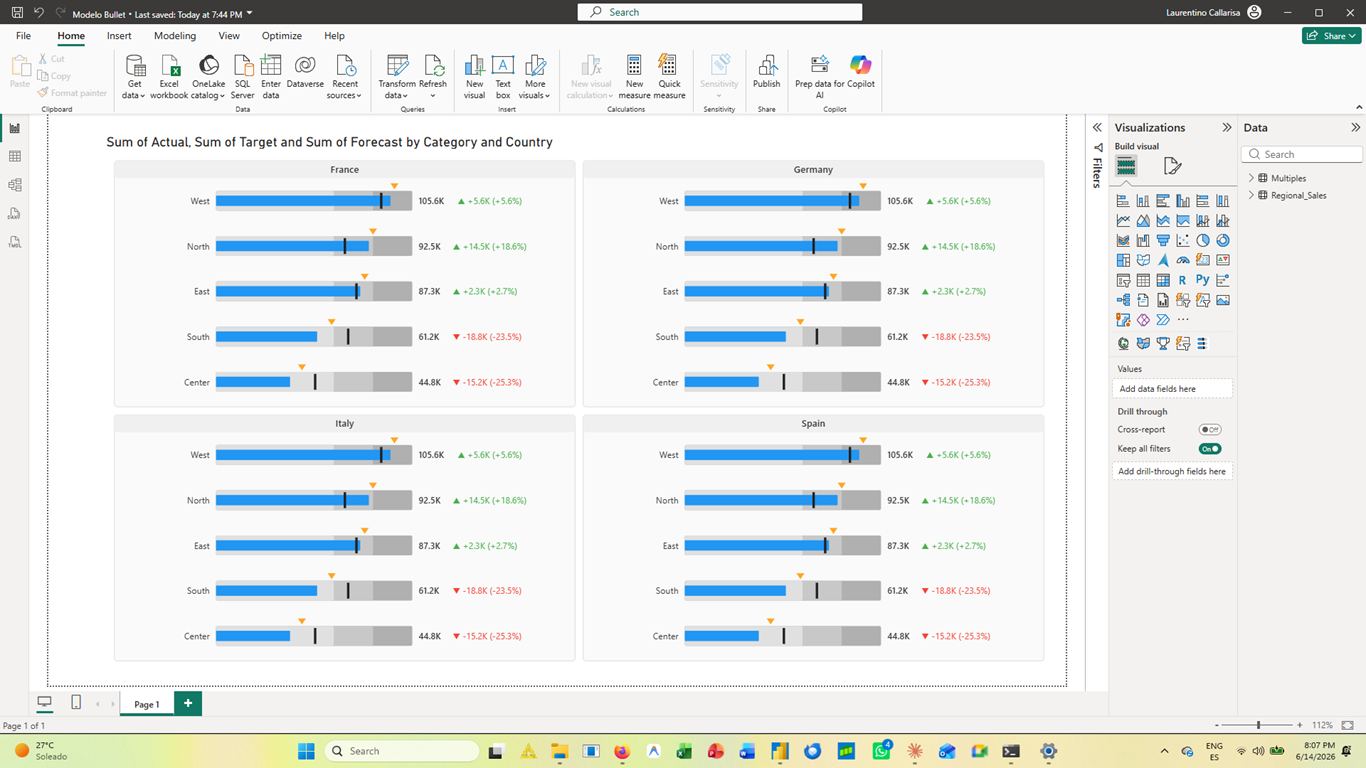
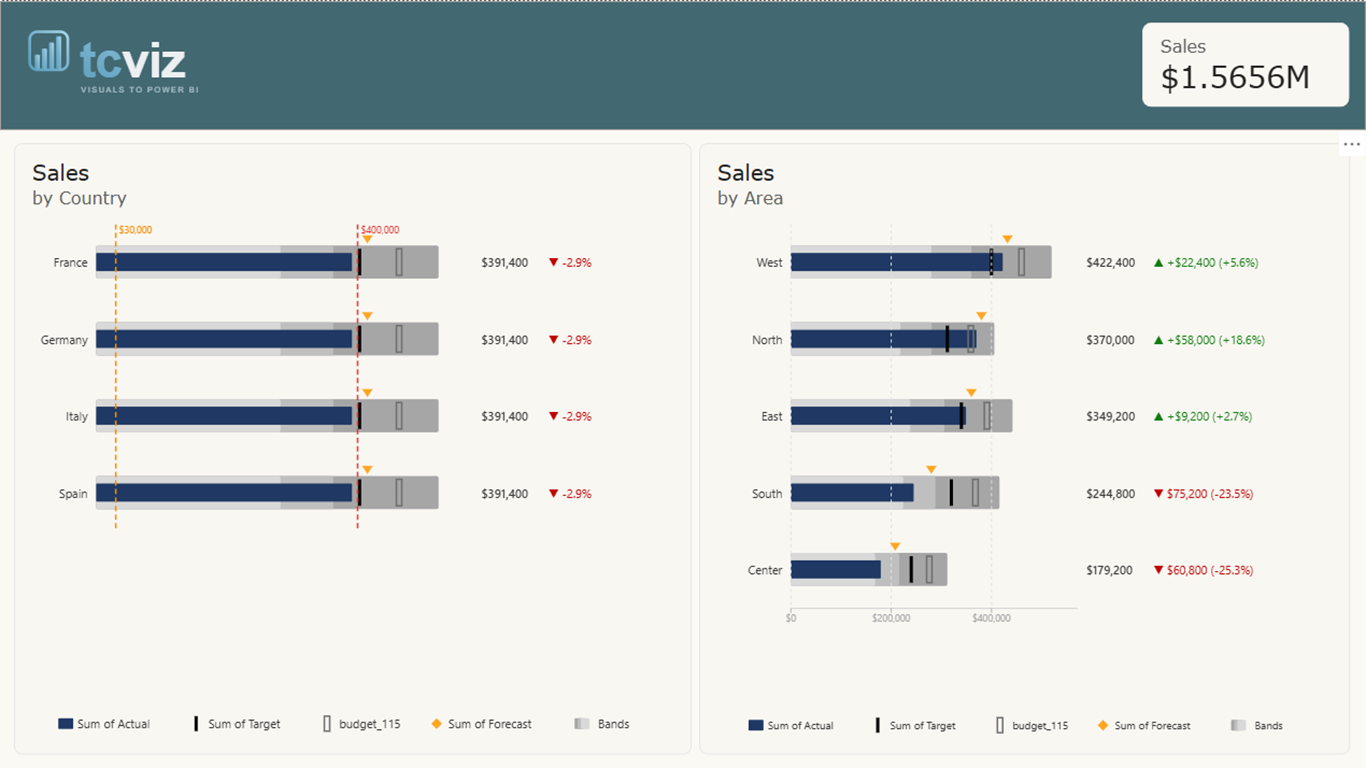
1.5: icono nuevo, infografía y capturas en assets/, datos de ejemplo

diff --git a/webpack.statistics.prod.html b/webpack.statistics.prod.html
@@ -3,7 +3,7 @@
   <head>
     <meta charset="UTF-8"/>
     <meta name="viewport" content="width=device-width, initial-scale=1"/>
-    <title>bullet-chart-pro-tcviz [15 Jun 2026 at 20:03]</title>
+    <title>bullet-chart-pro-tcviz [21 Oct 2026 at 13:52]</title>
[1 lines of base64/hex data omitted]
 
     <script>
@@ -31,7 +31,7 @@
   <body>
     <div id="app"></div>
     <script>
-      window.chartData = [{"label":"visual.js","isAsset":true,"statSize":41421,"parsedSize":21737,"gzipSize":6152,"groups":[{"label":".tmp/precompile","path":"./.tmp/precompile","statSize":991,"groups":[{"id":251,"label":"visualPlugin.ts","path":"./.tmp/precompile/visualPlugin.ts","statSize":991,"parsedSize":1037,"gzipSize":569}],"parsedSize":1037,"gzipSize":569},{"label":"src","path":"./src","statSize":40430,"groups":[{"id":473,"label":"settings.ts","path":"./src/settings.ts","statSize":933,"parsedSize":611,"gzipSize":380},{"id":848,"label":"visual.ts","path":"./src/visual.ts","statSize":39497,"parsedSize":20077,"gzipSize":5458}],"parsedSize":20688,"gzipSize":5676}],"isInitialByEntrypoint":{"visual.js":true}}];
+      window.chartData = [{"label":"visual.js","isAsset":true,"statSize":655906,"parsedSize":260832,"gzipSize":77741,"groups":[{"label":".tmp/precompile","path":"./.tmp/precompile","statSize":991,"groups":[{"id":9251,"label":"visualPlugin.ts","path":"./.tmp/precompile/visualPlugin.ts","statSize":991,"parsedSize":1765,"gzipSize":991}],"parsedSize":1765,"gzipSize":991},{"label":"node_modules","path":"./node_modules","statSize":441158,"groups":[{"label":"d3-selection/src","path":"./node_modules/d3-selection/src","statSize":28702,"groups":[{"id":5478,"label":"array.js","path":"./node_modules/d3-selection/src/array.js","statSize":568,"parsedSize":90,"gzipSize":101},{"id":9731,"label":"constant.js","path":"./node_modules/d3-selection/src/constant.js","statSize":72,"parsedSize":67,"gzipSize":73},{"id":3663,"label":"creator.js","path":"./node_modules/d3-selection/src/creator.js","statSize":668,"parsedSize":369,"gzipSize":221},{"id":7875,"label":"index.js","path":"./node_modules/d3-selection/src/index.js","statSize":770,"parsedSize":73,"gzipSize":85},{"id":6541,"label":"matcher.js","path":"./node_modules/d3-selection/src/matcher.js","statSize":211,"parsedSize":143,"gzipSize":102},{"id":7268,"label":"namespace.js","path":"./node_modules/d3-selection/src/namespace.js","statSize":351,"parsedSize":188,"gzipSize":174},{"id":7947,"label":"namespaces.js","path":"./node_modules/d3-selection/src/namespaces.js","statSize":254,"parsedSize":248,"gzipSize":165},{"id":183,"label":"select.js","path":"./node_modules/d3-selection/src/select.js","statSize":262,"parsedSize":167,"gzipSize":153},{"id":4984,"label":"selectAll.js","path":"./node_modules/d3-selection/src/selectAll.js","statSize":300,"parsedSize":185,"gzipSize":166},{"label":"selection","path":"./node_modules/d3-selection/src/selection","statSize":24705,"groups":[{"id":8072,"label":"append.js","path":"./node_modules/d3-selection/src/selection/append.js","statSize":238,"parsedSize":175,"gzipSize":150},{"id":7339,"label":"attr.js","path":"./node_modules/d3-selection/src/selection/attr.js","statSize":1463,"parsedSize":805,"gzipSize":294},{"id":5152,"label":"call.js","path":"./node_modules/d3-selection/src/selection/call.js","statSize":134,"parsedSize":111,"gzipSize":111},{"id":8235,"label":"classed.js","path":"./node_modules/d3-selection/src/selection/classed.js","statSize":1740,"parsedSize":996,"gzipSize":439},{"id":9063,"label":"clone.js","path":"./node_modules/d3-selection/src/selection/clone.js","statSize":453,"parsedSize":269,"gzipSize":154},{"id":8664,"label":"data.js","path":"./node_modules/d3-selection/src/selection/data.js","statSize":4191,"parsedSize":1156,"gzipSize":617},{"id":9433,"label":"datum.js","path":"./node_modules/d3-selection/src/selection/datum.js","statSize":132,"parsedSize":112,"gzipSize":116},{"id":202,"label":"dispatch.js","path":"./node_modules/d3-selection/src/selection/dispatch.js","statSize":894,"parsedSize":457,"gzipSize":262},{"id":2901,"label":"each.js","path":"./node_modules/d3-selection/src/selection/each.js","statSize":289,"parsedSize":172,"gzipSize":153},{"id":807,"label":"empty.js","path":"./node_modules/d3-selection/src/selection/empty.js","statSize":53,"parsedSize":57,"gzipSize":77},{"id":4916,"label":"enter.js","path":"./node_modules/d3-selection/src/selection/enter.js","statSize":798,"parsedSize":567,"gzipSize":284},{"id":2672,"label":"exit.js","path":"./node_modules/d3-selection/src/selection/exit.js","statSize":182,"parsedSize":128,"gzipSize":132},{"id":9734,"label":"filter.js","path":"./node_modules/d3-selection/src/selection/filter.js","statSize":552,"parsedSize":291,"gzipSize":239},{"id":697,"label":"html.js","path":"./node_modules/d3-selection/src/selection/html.js","statSize":520,"parsedSize":301,"gzipSize":182},{"id":1882,"label":"index.js","path":"./node_modules/d3-selection/src/selection/index.js","statSize":2805,"parsedSize":929,"gzipSize":608},{"id":1429,"label":"insert.js","path":"./node_modules/d3-selection/src/selection/insert.js","statSize":474,"parsedSize":288,"gzipSize":194},{"id":1322,"label":"iterator.js","path":"./node_modules/d3-selection/src/selection/iterator.js","statSize":231,"parsedSize":144,"gzipSize":137},{"id":5232,"label":"join.js","path":"./node_modules/d3-selection/src/selection/join.js","statSize":509,"parsedSize":242,"gzipSize":181},{"id":9215,"label":"lower.js","path":"./node_modules/d3-selection/src/selection/lower.js","statSize":171,"parsedSize":155,"gzipSize":135},{"id":7610,"label":"merge.js","path":"./node_modules/d3-selection/src/selection/merge.js","statSize":645,"parsedSize":332,"gzipSize":244},{"id":4784,"label":"node.js","path":"./node_modules/d3-selection/src/selection/node.js","statSize":258,"parsedSize":160,"gzipSize":142},{"id":3455,"label":"nodes.js","path":"./node_modules/d3-selection/src/selection/nodes.js","statSize":57,"parsedSize":62,"gzipSize":82},{"id":5233,"label":"on.js","path":"./node_modules/d3-selection/src/selection/on.js","statSize":2027,"parsedSize":1133,"gzipSize":559},{"id":4510,"label":"order.js","path":"./node_modules/d3-selection/src/selection/order.js","statSize":380,"parsedSize":223,"gzipSize":192},{"id":461,"label":"property.js","path":"./node_modules/d3-selection/src/selection/property.js","statSize":617,"parsedSize":326,"gzipSize":190},{"id":2582,"label":"raise.js","path":"./node_modules/d3-selection/src/selection/raise.js","statSize":138,"parsedSize":123,"gzipSize":124},{"id":3900,"label":"remove.js","path":"./node_modules/d3-selection/src/selection/remove.js","statSize":153,"parsedSize":116,"gzipSize":118},{"id":7952,"label":"select.js","path":"./node_modules/d3-selection/src/selection/select.js","statSize":659,"parsedSize":345,"gzipSize":256},{"id":9713,"label":"selectAll.js","path":"./node_modules/d3-selection/src/selection/selectAll.js","statSize":730,"parsedSize":353,"gzipSize":263},{"id":7408,"label":"selectChild.js","path":"./node_modules/d3-selection/src/selection/selectChild.js","statSize":403,"parsedSize":248,"gzipSize":181},{"id":7867,"label":"selectChildren.js","path":"./node_modules/d3-selection/src/selection/selectChildren.js","statSize":421,"parsedSize":256,"gzipSize":178},{"id":165,"label":"size.js","path":"./node_modules/d3-selection/src/selection/size.js","statSize":134,"parsedSize":79,"gzipSize":93},{"id":2920,"label":"sort.js","path":"./node_modules/d3-selection/src/selection/sort.js","statSize":684,"parsedSize":361,"gzipSize":265},{"id":6732,"label":"sparse.js","path":"./node_modules/d3-selection/src/selection/sparse.js","statSize":71,"parsedSize":66,"gzipSize":85},{"id":3683,"label":"style.js","path":"./node_modules/d3-selection/src/selection/style.js","statSize":971,"parsedSize":528,"gzipSize":264},{"id":7499,"label":"text.js","path":"./node_modules/d3-selection/src/selection/text.js","statSize":528,"parsedSize":309,"gzipSize":179}],"parsedSize":12375,"gzipSize":3762},{"id":574,"label":"selector.js","path":"./node_modules/d3-selection/src/selector.js","statSize":152,"parsedSize":111,"gzipSize":106},{"id":747,"label":"selectorAll.js","path":"./node_modules/d3-selection/src/selectorAll.js","statSize":171,"parsedSize":122,"gzipSize":111},{"id":6747,"label":"window.js","path":"./node_modules/d3-selection/src/window.js","statSize":218,"parsedSize":121,"gzipSize":107}],"parsedSize":14259,"gzipSize":4195},{"label":"powerbi-visuals-utils-formattingmodel/lib","path":"./node_modules/powerbi-visuals-utils-formattingmodel/lib","statSize":30124,"groups":[{"id":9754,"label":"FormattingSettingsComponents.js","path":"./node_modules/powerbi-visuals-utils-formattingmodel/lib/FormattingSettingsComponents.js","statSize":15245,"parsedSize":1881,"gzipSize":668},{"id":6667,"label":"FormattingSettingsService.js","path":"./node_modules/powerbi-visuals-utils-formattingmodel/lib/FormattingSettingsService.js","statSize":12870,"parsedSize":4463,"gzipSize":1162},{"id":7674,"label":"index.js","path":"./node_modules/powerbi-visuals-utils-formattingmodel/lib/index.js","statSize":340,"parsedSize":61,"gzipSize":77},{"label":"utils","path":"./node_modules/powerbi-visuals-utils-formattingmodel/lib/utils","statSize":1669,"groups":[{"id":8639,"label":"FormattingSettingsUtils.js","path":"./node_modules/powerbi-visuals-utils-formattingmodel/lib/utils/FormattingSettingsUtils.js","statSize":1669,"parsedSize":450,"gzipSize":287}],"parsedSize":450,"gzipSize":287}],"parsedSize":6855,"gzipSize":1875},{"label":"powerbi-visuals-utils-formattingutils","path":"./node_modules/powerbi-visuals-utils-formattingutils","statSize":251075,"groups":[{"label":"lib","path":"./node_modules/powerbi-visuals-utils-formattingutils/lib","statSize":239760,"groups":[{"label":"globalize","path":"./node_modules/powerbi-visuals-utils-formattingutils/lib/globalize","statSize":69344,"groups":[{"id":980,"label":"globalize.cultures.js","path":"./node_modules/powerbi-visuals-utils-formattingutils/lib/globalize/globalize.cultures.js","statSize":789,"parsedSize":185,"gzipSize":164},{"id":7717,"label":"globalize.js","path":"./node_modules/powerbi-visuals-utils-formattingutils/lib/globalize/globalize.js","statSize":55354,"parsedSize":15440,"gzipSize":5678},{"id":1044,"label":"powerbiGlobalizeLocales.js","path":"./node_modules/powerbi-visuals-utils-formattingutils/lib/globalize/powerbiGlobalizeLocales.js","statSize":13201,"parsedSize":11332,"gzipSize":3047}],"parsedSize":26957,"gzipSize":8680},{"label":"src","path":"./node_modules/powerbi-visuals-utils-formattingutils/lib/src","statSize":170416,"groups":[{"label":"date","path":"./node_modules/powerbi-visuals-utils-formattingutils/lib/src/date","statSize":22739,"groups":[{"id":7630,"label":"dateTimeSequence.js","path":"./node_modules/powerbi-visuals-utils-formattingutils/lib/src/date/dateTimeSequence.js","statSize":17557,"parsedSize":6219,"gzipSize":1586},{"id":7925,"label":"dateUtils.js","path":"./node_modules/powerbi-visuals-utils-formattingutils/lib/src/date/dateUtils.js","statSize":5182,"parsedSize":1120,"gzipSize":455}],"parsedSize":7339,"gzipSize":1897},{"label":"displayUnitSystem","path":"./node_modules/powerbi-visuals-utils-formattingutils/lib/src/displayUnitSystem","statSize":21052,"groups":[{"id":3224,"label":"displayUnitSystem.js","path":"./node_modules/powerbi-visuals-utils-formattingutils/lib/src/displayUnitSystem/displayUnitSystem.js","statSize":18528,"parsedSize":5964,"gzipSize":1930},{"id":1520,"label":"displayUnitSystemType.js","path":"./node_modules/powerbi-visuals-utils-formattingutils/lib/src/displayUnitSystem/displayUnitSystemType.js","statSize":2524,"parsedSize":260,"gzipSize":186}],"parsedSize":6224,"gzipSize":2003},{"label":"font","path":"./node_modules/powerbi-visuals-utils-formattingutils/lib/src/font","statSize":5066,"groups":[{"id":3801,"label":"family.js","path":"./node_modules/powerbi-visuals-utils-formattingutils/lib/src/font/family.js","statSize":2038,"parsedSize":521,"gzipSize":213},{"id":6721,"label":"familyInfo.js","path":"./node_modules/powerbi-visuals-utils-formattingutils/lib/src/font/familyInfo.js","statSize":3028,"parsedSize":705,"gzipSize":352}],"parsedSize":1226,"gzipSize":467},{"id":4932,"label":"formatting.js","path":"./node_modules/powerbi-visuals-utils-formattingutils/lib/src/formatting.js","statSize":5581,"parsedSize":1429,"gzipSize":580},{"label":"formattingService","path":"./node_modules/powerbi-visuals-utils-formattingutils/lib/src/formattingService","statSize":54405,"groups":[{"id":6394,"label":"dateTimeFormat.js","path":"./node_modules/powerbi-visuals-utils-formattingutils/lib/src/formattingService/dateTimeFormat.js","statSize":5820,"parsedSize":1244,"gzipSize":625},{"id":6459,"label":"formattingEncoder.js","path":"./node_modules/powerbi-visuals-utils-formattingutils/lib/src/formattingService/formattingEncoder.js","statSize":3793,"parsedSize":767,"gzipSize":439},{"id":3100,"label":"formattingService.js","path":"./node_modules/powerbi-visuals-utils-formattingutils/lib/src/formattingService/formattingService.js","statSize":10472,"parsedSize":3236,"gzipSize":1223},{"id":3351,"label":"iFormattingService.js","path":"./node_modules/powerbi-visuals-utils-formattingutils/lib/src/formattingService/iFormattingService.js","statSize":1936,"parsedSize":295,"gzipSize":212},{"id":7534,"label":"numberFormat.js","path":"./node_modules/powerbi-visuals-utils-formattingutils/lib/src/formattingService/numberFormat.js","statSize":32384,"parsedSize":7213,"gzipSize":3010}],"parsedSize":12755,"gzipSize":4753},{"id":1847,"label":"index.js","path":"./node_modules/powerbi-visuals-utils-formattingutils/lib/src/index.js","statSize":1763,"parsedSize":144,"gzipSize":119},{"id":1107,"label":"interfaces.js","path":"./node_modules/powerbi-visuals-utils-formattingutils/lib/src/interfaces.js","statSize":115,"parsedSize":55,"gzipSize":75},{"label":"storageService","path":"./node_modules/powerbi-visuals-utils-formattingutils/lib/src/storageService","statSize":2561,"groups":[{"id":167,"label":"ephemeralStorageService.js","path":"./node_modules/powerbi-visuals-utils-formattingutils/lib/src/storageService/ephemeralStorageService.js","statSize":2561,"parsedSize":665,"gzipSize":300}],"parsedSize":665,"gzipSize":300},{"id":1248,"label":"stringExtensions.js","path":"./node_modules/powerbi-visuals-utils-formattingutils/lib/src/stringExtensions.js","statSize":10611,"parsedSize":2986,"gzipSize":1195},{"id":2391,"label":"textMeasurementService.js","path":"./node_modules/powerbi-visuals-utils-formattingutils/lib/src/textMeasurementService.js","statSize":16521,"parsedSize":4375,"gzipSize":1479},{"id":604,"label":"textUtil.js","path":"./node_modules/powerbi-visuals-utils-formattingutils/lib/src/textUtil.js","statSize":2230,"parsedSize":359,"gzipSize":237},{"id":5062,"label":"valueFormatter.js","path":"./node_modules/powerbi-visuals-utils-formattingutils/lib/src/valueFormatter.js","statSize":22548,"parsedSize":7880,"gzipSize":2581},{"id":5807,"label":"wordBreaker.js","path":"./node_modules/powerbi-visuals-utils-formattingutils/lib/src/wordBreaker.js","statSize":5224,"parsedSize":1170,"gzipSize":572}],"parsedSize":46607,"gzipSize":13941}],"parsedSize":73564,"gzipSize":22344},{"label":"node_modules/powerbi-visuals-utils-dataviewutils/lib","path":"./node_modules/powerbi-visuals-utils-formattingutils/node_modules/powerbi-visuals-utils-dataviewutils/lib","statSize":11315,"groups":[{"id":9397,"label":"converterHelper.js","path":"./node_modules/powerbi-visuals-utils-formattingutils/node_modules/powerbi-visuals-utils-dataviewutils/lib/converterHelper.js","statSize":1455,"parsedSize":698,"gzipSize":351},{"id":5165,"label":"dataRoleHelper.js","path":"./node_modules/powerbi-visuals-utils-formattingutils/node_modules/powerbi-visuals-utils-dataviewutils/lib/dataRoleHelper.js","statSize":1460,"parsedSize":688,"gzipSize":347},{"id":7963,"label":"dataViewObject.js","path":"./node_modules/powerbi-visuals-utils-formattingutils/node_modules/powerbi-visuals-utils-dataviewutils/lib/dataViewObject.js","statSize":616,"parsedSize":207,"gzipSize":166},{"id":8862,"label":"dataViewObjects.js","path":"./node_modules/powerbi-visuals-utils-formattingutils/node_modules/powerbi-visuals-utils-dataviewutils/lib/dataViewObjects.js","statSize":1224,"parsedSize":400,"gzipSize":237},{"id":6573,"label":"dataViewObjectsParser.js","path":"./node_modules/powerbi-visuals-utils-formattingutils/node_modules/powerbi-visuals-utils-dataviewutils/lib/dataViewObjectsParser.js","statSize":2650,"parsedSize":993,"gzipSize":489},{"id":9098,"label":"dataViewTransform.js","path":"./node_modules/powerbi-visuals-utils-formattingutils/node_modules/powerbi-visuals-utils-dataviewutils/lib/dataViewTransform.js","statSize":1652,"parsedSize":502,"gzipSize":302},{"id":686,"label":"dataViewWildcard.js","path":"./node_modules/powerbi-visuals-utils-formattingutils/node_modules/powerbi-visuals-utils-dataviewutils/lib/dataViewWildcard.js","statSize":1696,"parsedSize":144,"gzipSize":137},{"id":9933,"label":"index.js","path":"./node_modules/powerbi-visuals-utils-formattingutils/node_modules/powerbi-visuals-utils-dataviewutils/lib/index.js","statSize":562,"parsedSize":258,"gzipSize":181}],"parsedSize":3890,"gzipSize":1439}],"parsedSize":77454,"gzipSize":23635},{"label":"powerbi-visuals-utils-onobjectutils/lib","path":"./node_modules/powerbi-visuals-utils-onobjectutils/lib","statSize":38150,"groups":[{"id":6760,"label":"HtmlSubSelectionHelper.js","path":"./node_modules/powerbi-visuals-utils-onobjectutils/lib/HtmlSubSelectionHelper.js","statSize":31764,"parsedSize":12060,"gzipSize":3391},{"id":6472,"label":"helperFunctions.js","path":"./node_modules/powerbi-visuals-utils-onobjectutils/lib/helperFunctions.js","statSize":2961,"parsedSize":902,"gzipSize":442},{"id":6025,"label":"index.js","path":"./node_modules/powerbi-visuals-utils-onobjectutils/lib/index.js","statSize":3425,"parsedSize":801,"gzipSize":223}],"parsedSize":13763,"gzipSize":3807},{"label":"powerbi-visuals-utils-typeutils/lib","path":"./node_modules/powerbi-visuals-utils-typeutils/lib","statSize":93107,"groups":[{"id":5442,"label":"double.js","path":"./node_modules/powerbi-visuals-utils-typeutils/lib/double.js","statSize":19455,"parsedSize":6329,"gzipSize":2473},{"label":"extensions","path":"./node_modules/powerbi-visuals-utils-typeutils/lib/extensions","statSize":14758,"groups":[{"id":4341,"label":"arrayExtensions.js","path":"./node_modules/powerbi-visuals-utils-typeutils/lib/extensions/arrayExtensions.js","statSize":7565,"parsedSize":2618,"gzipSize":1013},{"id":2879,"label":"enumExtensions.js","path":"./node_modules/powerbi-visuals-utils-typeutils/lib/extensions/enumExtensions.js","statSize":2441,"parsedSize":327,"gzipSize":209},{"id":4298,"label":"logicExtensions.js","path":"./node_modules/powerbi-visuals-utils-typeutils/lib/extensions/logicExtensions.js","statSize":1441,"parsedSize":72,"gzipSize":90},{"id":3051,"label":"regExpExtensions.js","path":"./node_modules/powerbi-visuals-utils-typeutils/lib/extensions/regExpExtensions.js","statSize":1854,"parsedSize":86,"gzipSize":97},{"id":539,"label":"stringExtensions.js","path":"./node_modules/powerbi-visuals-utils-typeutils/lib/extensions/stringExtensions.js","statSize":1457,"parsedSize":97,"gzipSize":105}],"parsedSize":3200,"gzipSize":1222},{"id":2087,"label":"index.js","path":"./node_modules/powerbi-visuals-utils-typeutils/lib/index.js","statSize":1000,"parsedSize":421,"gzipSize":268},{"id":5038,"label":"jsonComparer.js","path":"./node_modules/powerbi-visuals-utils-typeutils/lib/jsonComparer.js","statSize":1555,"parsedSize":105,"gzipSize":109},{"label":"numericSequence","path":"./node_modules/powerbi-visuals-utils-typeutils/lib/numericSequence","statSize":15503,"groups":[{"id":372,"label":"numericSequence.js","path":"./node_modules/powerbi-visuals-utils-typeutils/lib/numericSequence/numericSequence.js","statSize":8883,"parsedSize":2316,"gzipSize":1074},{"id":67,"label":"numericSequenceRange.js","path":"./node_modules/powerbi-visuals-utils-typeutils/lib/numericSequence/numericSequenceRange.js","statSize":6620,"parsedSize":1753,"gzipSize":708}],"parsedSize":4069,"gzipSize":1592},{"id":5079,"label":"pixelConverter.js","path":"./node_modules/powerbi-visuals-utils-typeutils/lib/pixelConverter.js","statSize":1965,"parsedSize":212,"gzipSize":146},{"id":421,"label":"prototype.js","path":"./node_modules/powerbi-visuals-utils-typeutils/lib/prototype.js","statSize":2522,"parsedSize":377,"gzipSize":242},{"id":5939,"label":"textSizeDefaults.js","path":"./node_modules/powerbi-visuals-utils-typeutils/lib/textSizeDefaults.js","statSize":1975,"parsedSize":114,"gzipSize":117},{"id":4182,"label":"valueType.js","path":"./node_modules/powerbi-visuals-utils-typeutils/lib/valueType.js","statSize":34374,"parsedSize":12970,"gzipSize":2665}],"parsedSize":27797,"gzipSize":8174}],"parsedSize":140128,"gzipSize":40797},{"label":"src","path":"./src","statSize":207521,"groups":[{"id":1439,"label":"formatting.ts","path":"./src/formatting.ts","statSize":10125,"parsedSize":7006,"gzipSize":1630},{"id":8940,"label":"landingIcon.ts","path":"./src/landingIcon.ts","statSize":5078,"parsedSize":4972,"gzipSize":3799},{"id":3473,"label":"settings.ts","path":"./src/settings.ts","statSize":1691,"parsedSize":1081,"gzipSize":521},{"id":1024,"label":"strings.ts","path":"./src/strings.ts","statSize":39352,"parsedSize":27300,"gzipSize":9469},{"id":1848,"label":"visual.ts","path":"./src/visual.ts","statSize":151275,"parsedSize":73893,"gzipSize":19613}],"parsedSize":114252,"gzipSize":35789},{"label":"style","path":"./style","statSize":6236,"groups":[{"id":null,"label":"visual.less","path":"./style/visual.less","statSize":6236}],"parsedSize":0,"gzipSize":0}],"isInitialByEntrypoint":{"visual.js":true}}];
       window.entrypoints = ["visual.js"];
       window.defaultSizes = "parsed";
     </script>
